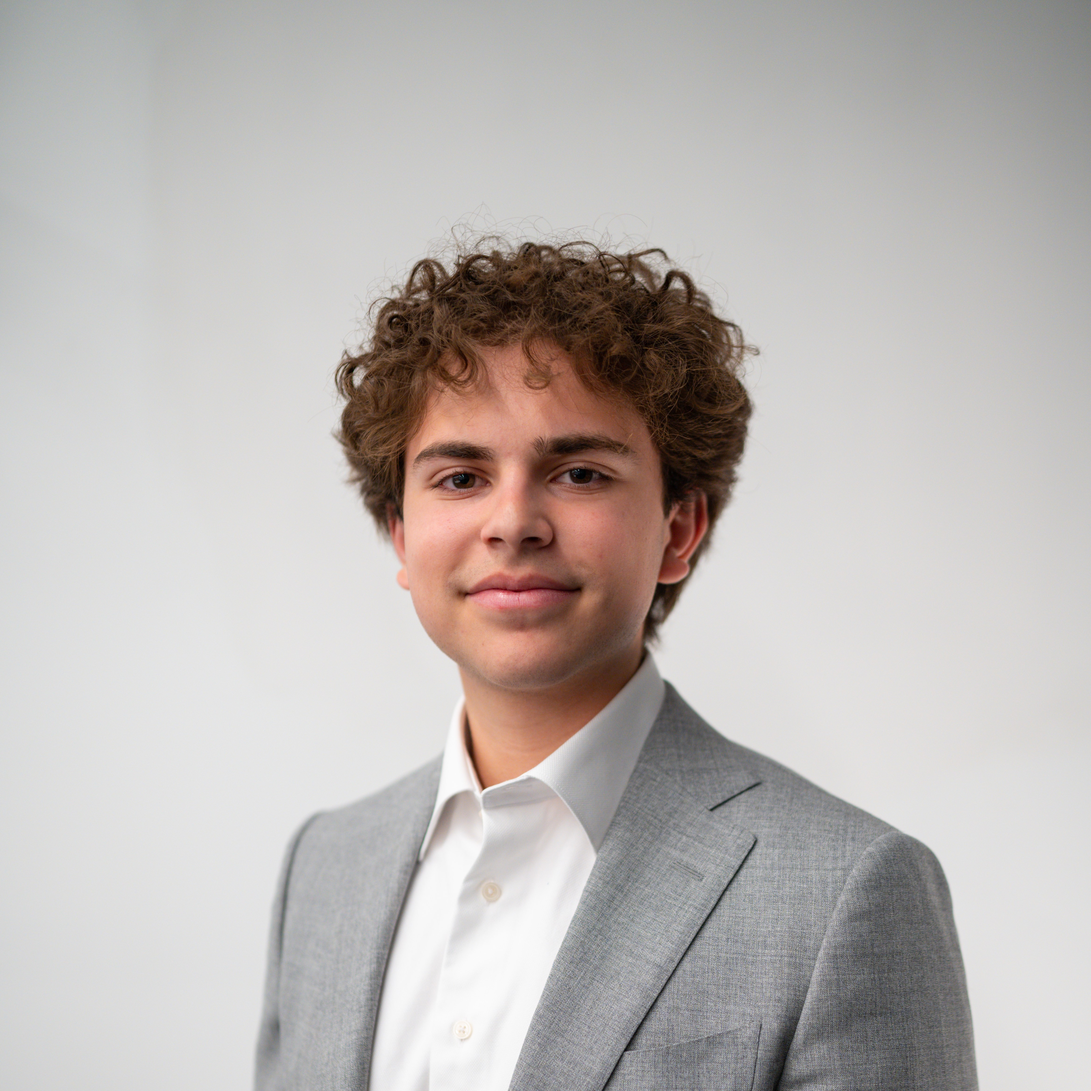
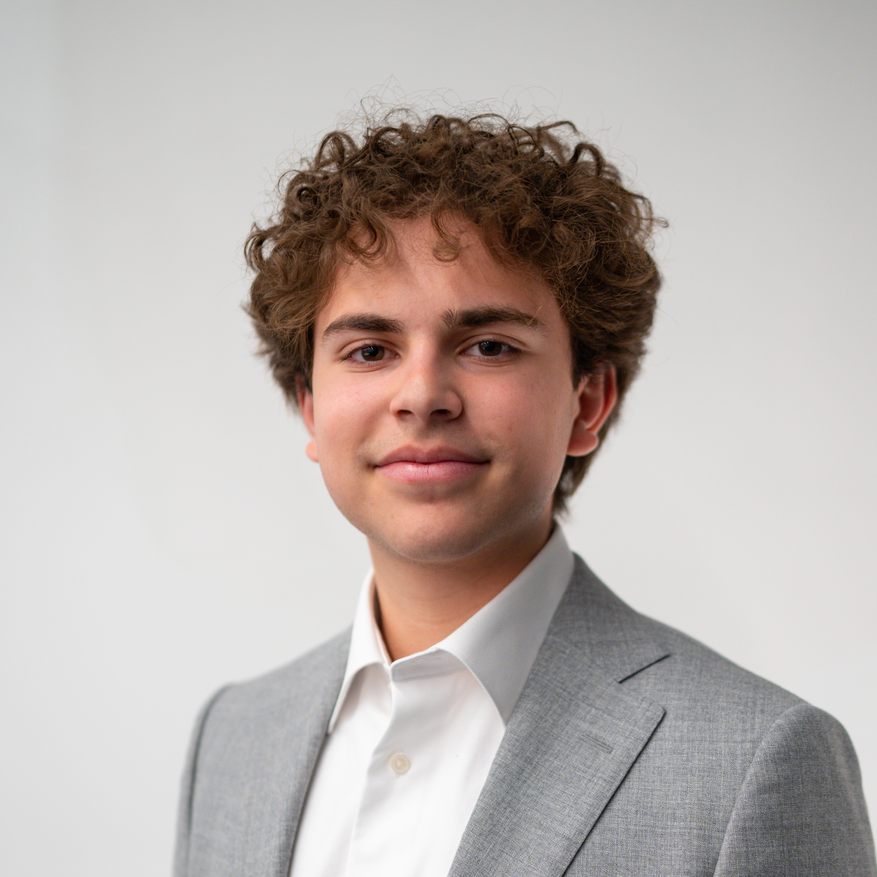
Add files via upload

diff --git a/aboutus.html b/aboutus.html
@@ -77,7 +77,7 @@
 
                 <div class="pres_img">
 
-                    <img src="images/Paul and Tye.jpg" alt="Tye Robison and Paul Lee">
+                    <img src="images/IMG_3157.jpg" alt="Tye Robison and Paul Lee">
 
                 </div>
 
@@ -141,7 +141,7 @@
 
                 <div class="hist_img">
 
-                    <img src="images/History.jpeg" alt="Tye Robison and Paul Lee">
+                    <img src="images/Spring2023.jpg" alt="Spring 2023 Group">
 
                 </div>
 
@@ -186,7 +186,7 @@
             </div>
             <div class="pillar_card">
                 <i class="fa-solid fa-building-columns"></i>
-                <h2>Alumni Connects</h2>
+                <h2>Alumni Connections</h2>
                 <p>Our alumni are spread out across the world and work on cutting-edge technologies. They work at a plethora of companies - from tech companies like Microsoft, Amazon, Facebook, Apple, and Google, to startups, consulting firms, financial technology firms, and more!</p>
             </div>
             <div class="pillar_card">

diff --git a/members.html b/members.html
@@ -116,7 +116,7 @@
             
             <a href="https://www.linkedin.com/in/anissa-patel/">
                 <div class="member_card">
-                    <img src="images/EBoard Headshots/Anissa 1.jpg" alt="">
+                    <img src="images/EBoard Headshots/_DSC1727.jpg" alt="">
                     <h2>Anissa Patel<br><span style="color: #7ac6d6;">Vice President of Professional Development</span></h2>
                 </div>
             </a>
@@ -264,7 +264,7 @@
                 </div>
             </a>
 
-            <a href="">
+            <a href="https://www.linkedin.com/in/ryan-chase-84ab8a215/">
                 <div class="small_member_card">
                     <img src="images/Alpha Headshots/Ryan 1.jpg" alt="">
                     <h2>Ryan Chase</h2>

diff --git a/styles2.css b/styles2.css
@@ -1,5 +1,4 @@
 @import url('https://fonts.googleapis.com/css2?family=Lato&family=Open+Sans:ital,wght@0,500;0,800;1,800&family=Playfair+Display:ital,wght@1,800&display=swap');
-
 body {
     width: 100%;
     background-color: #ffffff;
